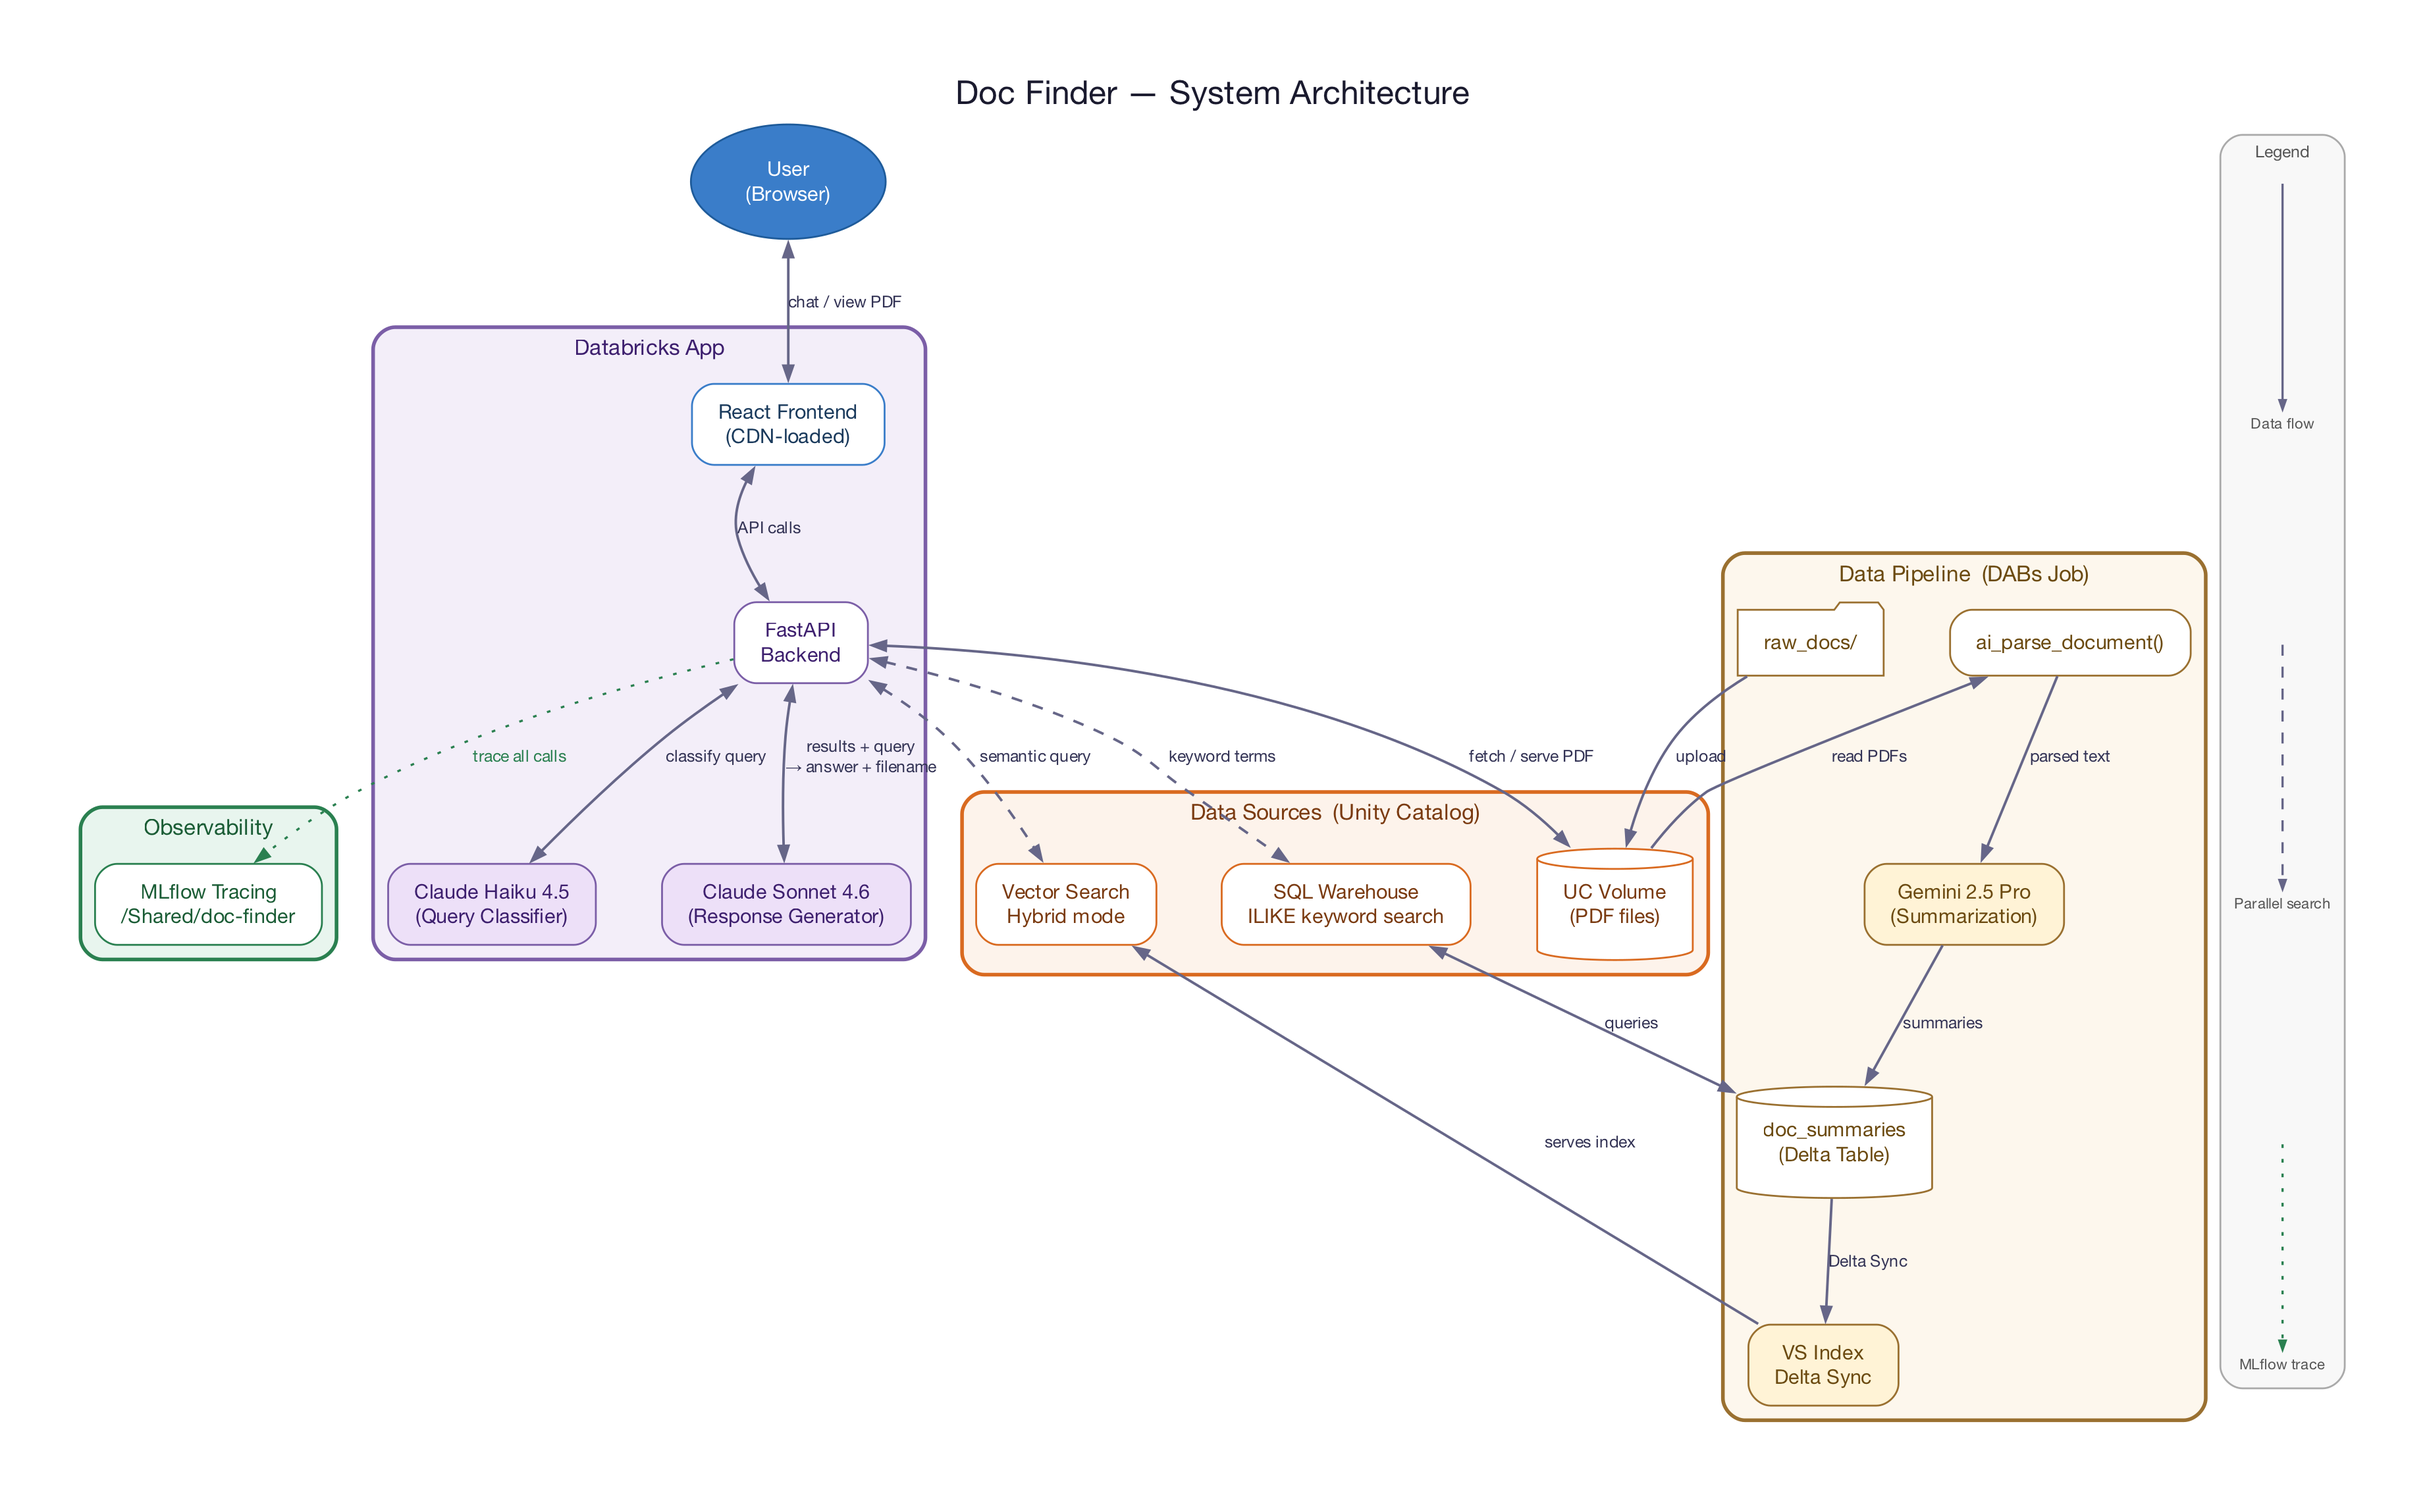
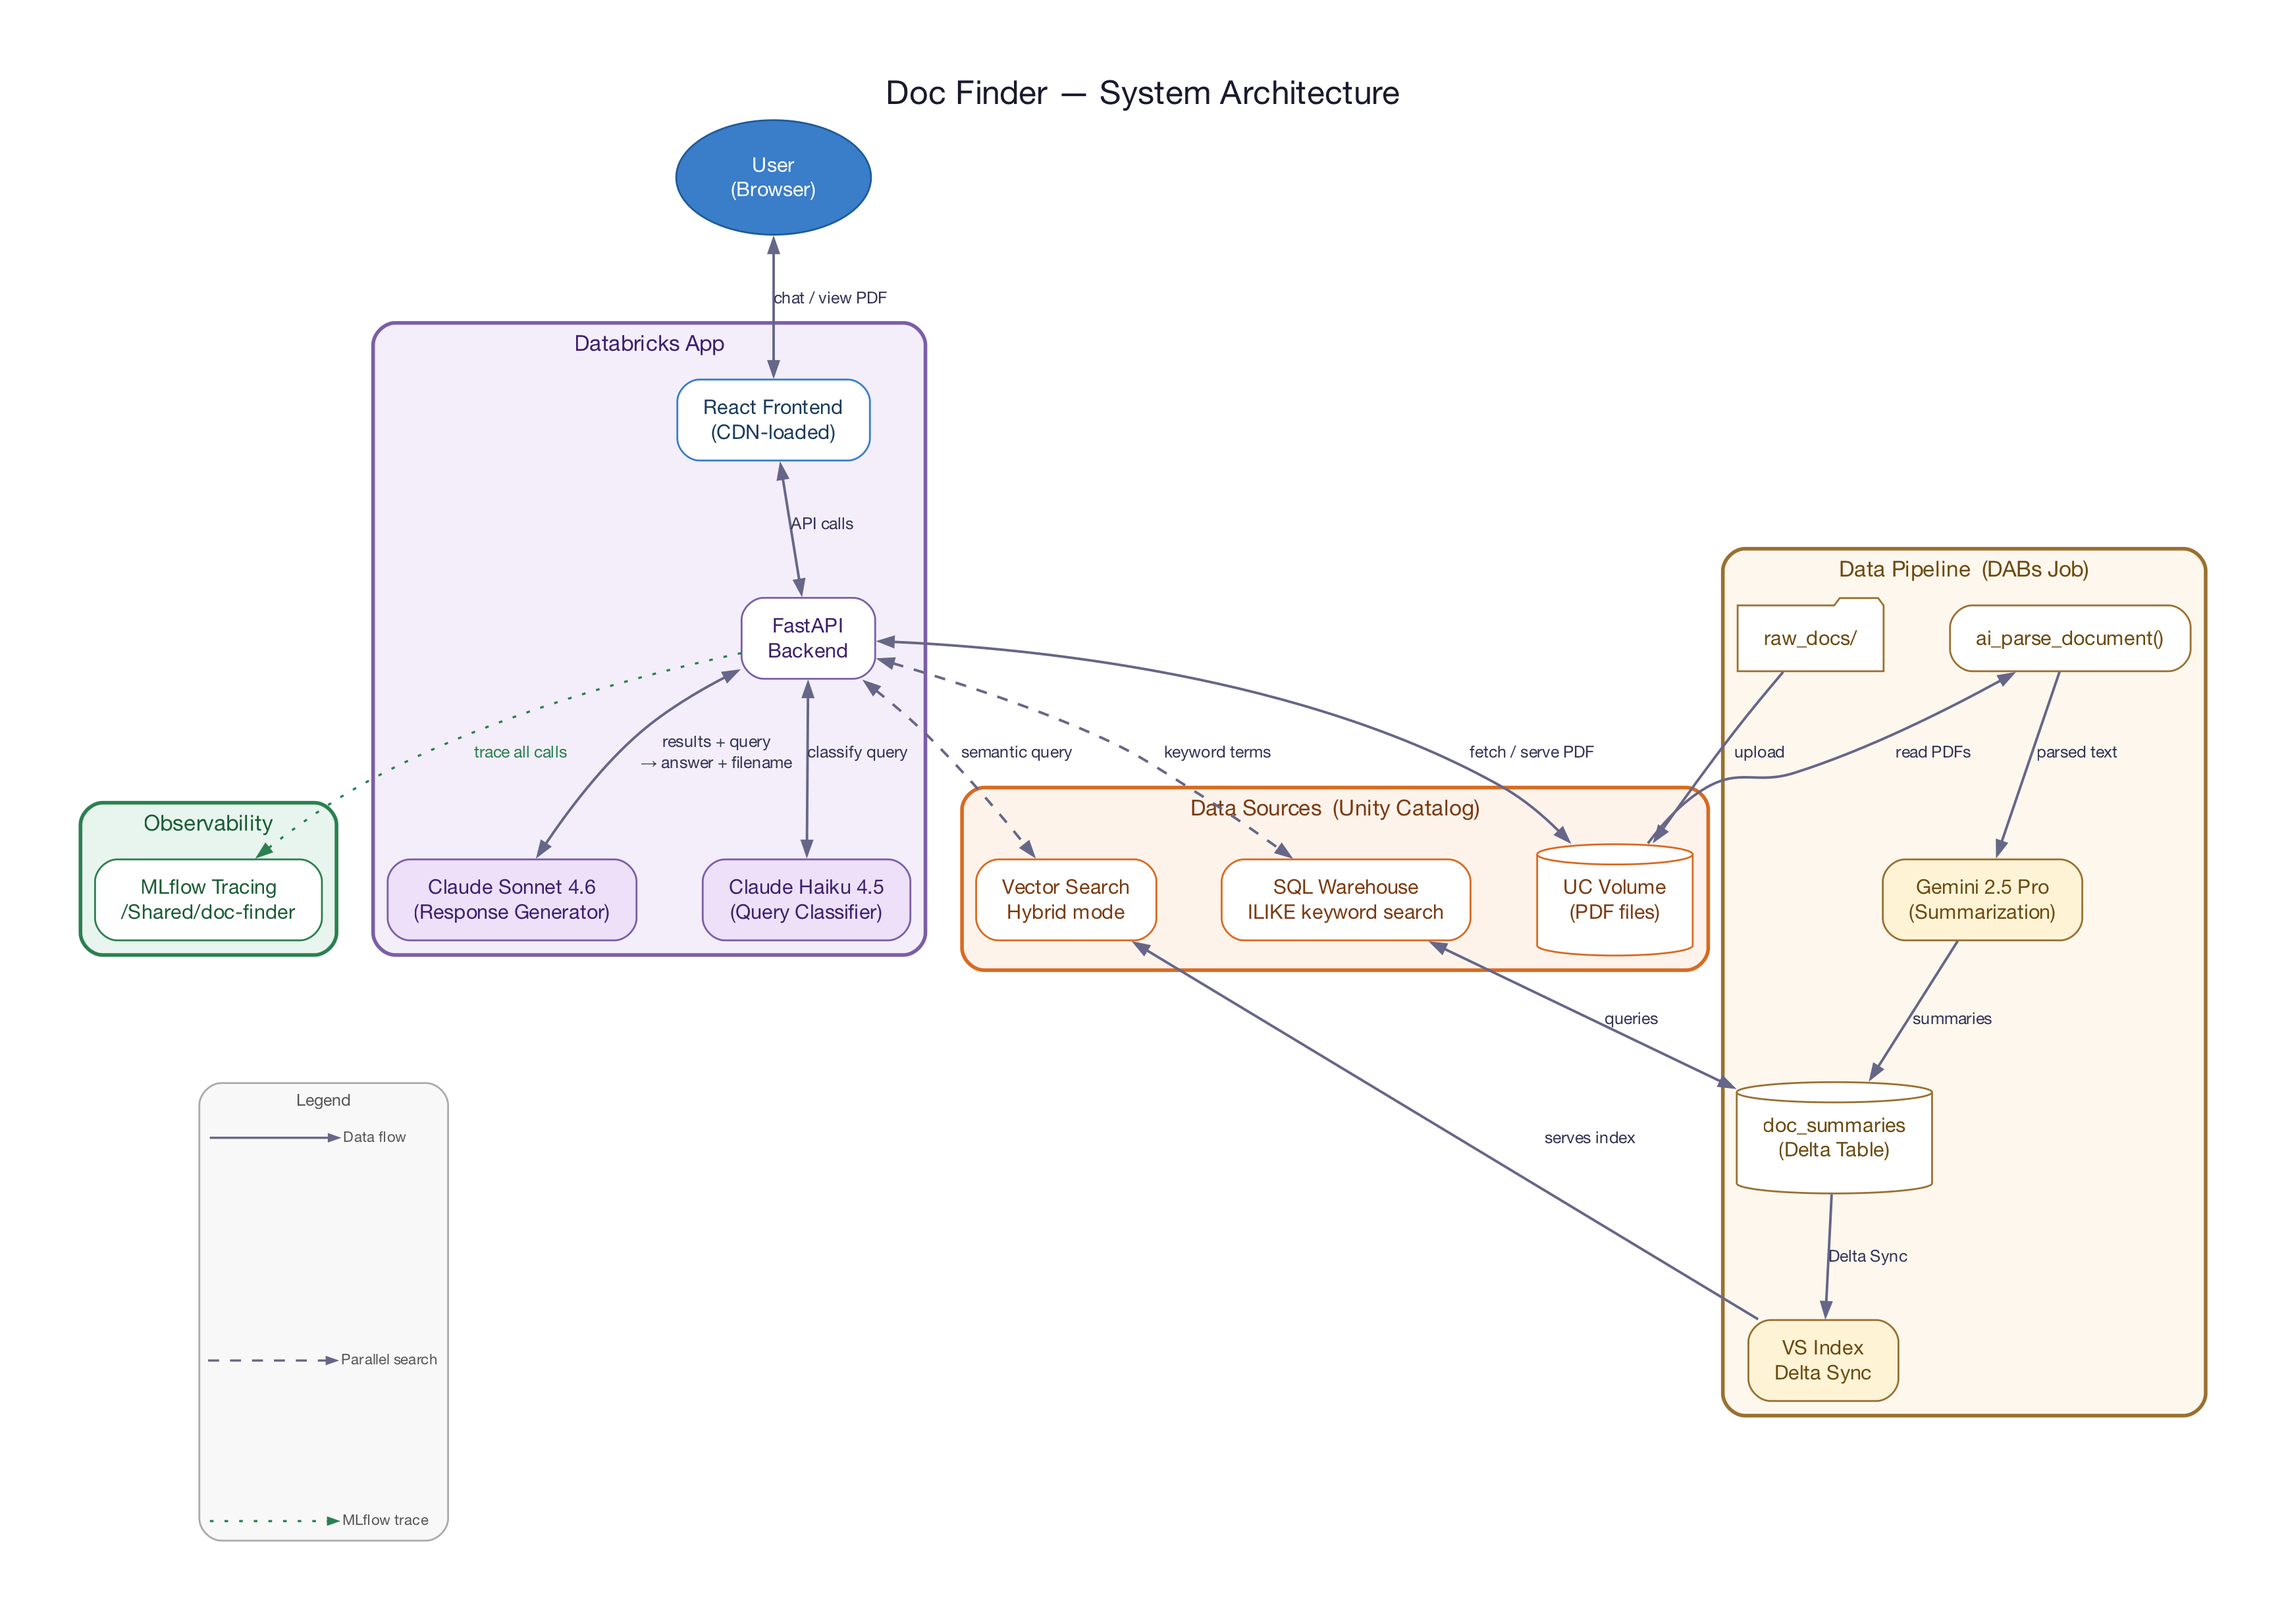
docs: reconcile README with architecture diagram and code
- Add architecture diagram reference to README
- Clarify FastAPI as the central orchestrator in all sections
- Fix Hybrid Search step 4: FastAPI merges results, not Sonnet
- Rewrite Data Flow to explicitly show FastAPI dispatching all calls
- Move legend to bottom-left in diagram

diff --git a/README.md b/README.md
@@ -6,11 +6,14 @@ Deployed via **Databricks Asset Bundles (DABs)** for multi-environment portabili
 
 ## Architecture
 
-- **Frontend**: React (CDN-loaded, single HTML file) with split-pane chat + PDF viewer
-- **Backend**: FastAPI serving the chat API and PDF files from Unity Catalog volumes
-- **Agent**: Claude Haiku 4.5 (query classification) + Claude Sonnet 4.6 (response) via Foundation Model API
+![System Architecture](docs/architecture.png)
+
+- **Databricks App**: React frontend (CDN-loaded) + FastAPI backend, deployed as a single Databricks App
+- **FastAPI Backend**: Orchestrates all calls — query classification, search dispatch, response generation, and PDF serving
+- **Claude Haiku 4.5**: Query classifier — returns semantic query, keyword terms, and reasoning to FastAPI
+- **Claude Sonnet 4.6**: Response generator — receives merged search results from FastAPI, returns answer + filename
 - **Vector Search**: Databricks Vector Search in hybrid mode (vector + keyword) over summary embeddings (`databricks-gte-large-en`)
-- **SQL Keyword Search**: SQL `ILIKE` on extracted plain text (filtered to text, table, title, and section header elements) for exact identifiers
+- **SQL Keyword Search**: Punctuation-normalized `ILIKE` on the `doc_summaries.plain_text` column via SQL Warehouse
 - **Deployment**: Databricks Asset Bundles → Databricks App
 
 ### Hybrid Search
@@ -20,7 +23,7 @@ The search operates on four layers:
 1. **Query understanding (Claude Haiku 4.5)** — classifies the user's query, rephrases it for better semantic matching, and extracts keyword terms for exact text search. Uses a fast, non-thinking model to minimize latency.
 2. **Vector Search (hybrid mode)** — combines vector similarity + keyword matching within the VS index on document summaries, using the classifier's rephrased query
 3. **SQL ILIKE** — punctuation-normalized text match on `plain_text` column (extracted content from text, table, title, and section header elements). Strips `: ; - space` from both the search term and document text so `45:28-33` matches `2006;45:28-33`.
-4. **Response (Claude Sonnet 4.6)** — merges results, receives the classifier's reasoning for context, prioritizes keyword matches for identifier queries, and explains why the document matches
+4. **Response (Claude Sonnet 4.6)** — receives merged results from FastAPI along with the classifier's reasoning for context, prioritizes keyword matches for identifier queries, and explains why the document matches
 
 | Query Type | Example | Search Path |
 |-----------|---------|-------------|
@@ -56,15 +59,17 @@ The pipeline extracts only **text, table, title, and section header** elements f
 
 ```
 User describes document in chat
-  → FastAPI receives POST /api/chat
-  → Claude Haiku 4.5 classifies query → {semantic_query, keyword_terms, reasoning}
-  → If keyword_terms: punctuation-normalized SQL ILIKE on doc_summaries.plain_text
-  → Always: Vector Search hybrid query on doc_summaries.summary (using rephrased query)
-  → Results merged, deduplicated by filename
-  → Combined results + reasoning + user message sent to Claude Sonnet 4.6
-  → Agent returns explanation + {filename, score}
+  → React Frontend sends POST /api/chat to FastAPI
+  → FastAPI calls Claude Haiku 4.5 → returns {semantic_query, keyword_terms, reasoning}
+  → FastAPI dispatches searches in parallel:
+      • Vector Search hybrid query on doc_summaries.summary (always)
+      • SQL ILIKE on doc_summaries.plain_text (if keyword_terms extracted)
+  → FastAPI merges and deduplicates results by filename
+  → FastAPI sends combined results + reasoning + user message to Claude Sonnet 4.6
+  → Sonnet returns explanation + {filename, score} to FastAPI
+  → FastAPI returns response to Frontend
   → Frontend renders response in chat + loads PDF via GET /api/docs/{filename}
-  → PDF served from Unity Catalog volume via REST API
+  → FastAPI fetches PDF from Unity Catalog volume and returns it
 ```
 
 ### Data Pipeline
